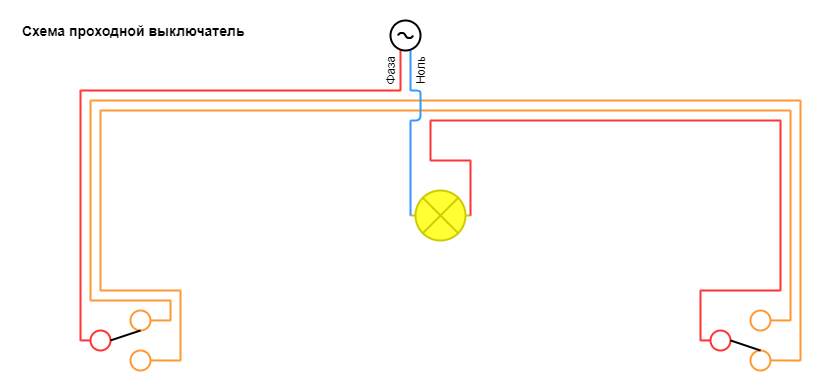
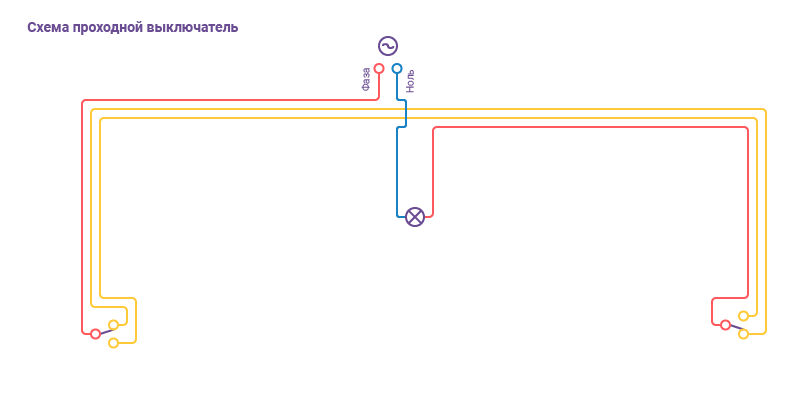
Update image shem

Changed region(s): [[0.0935, 0.0306, 0.9975, 0.949], [0.0312, 0.0306, 0.3117, 0.0918]]

diff --git a/shem.html b/shem.html
@@ -46,7 +46,7 @@
           <h4 class="mt-8">Элетро&shy;счетчик</h4>
         </a>
 
-        <a data-fancybox="gallery" href="img/shems/prohod.svg" class="card">
+        <a data-fancybox="gallery" href="img/shems/prohod.png" class="card">
           <img src="img/shems/icons/prohod.svg" width="100%" alt="Схема подключения проходного выключателя">
           <h4 class="mt-8">Проход&shy;ной<br>выклю&shy;чатель</h4>
         </a>
